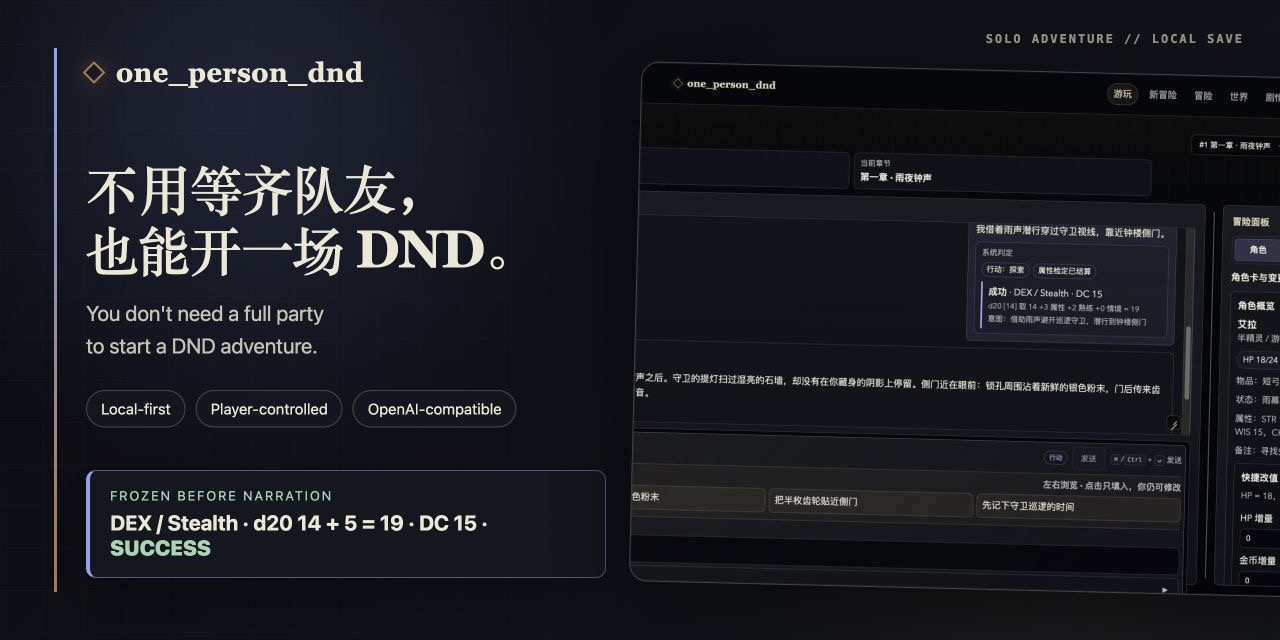
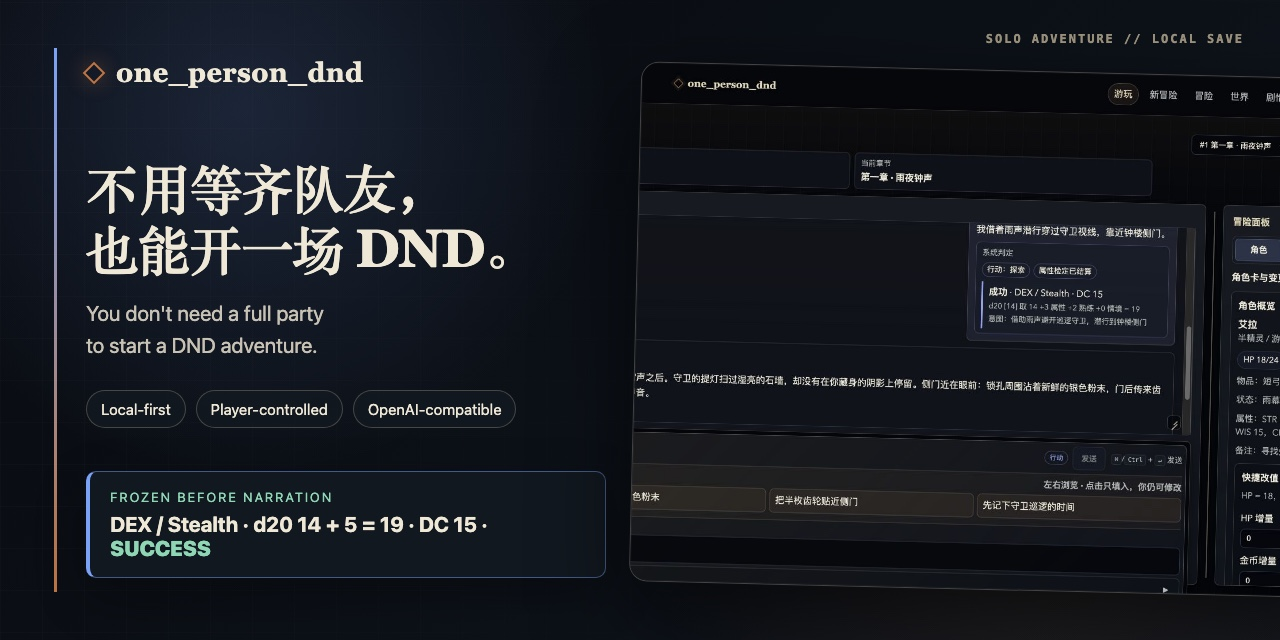
恢复双语 README 头图

diff --git a/docs/assets/github/social-preview-source.html b/docs/assets/github/social-preview-source.html
@@ -1,10 +1,21 @@
 <!doctype html>
-<!-- Render at 1280x720, then center-crop to GitHub's 1280x640 social-preview size. -->
-<html lang="zh-CN">
+<!--
+  Render at 1280x640; the height media query centers the 720px design canvas.
+  Chinese: social-preview-source.html
+  English: social-preview-source.html?locale=en
+-->
+<html lang="zh-CN" data-locale="zh-CN">
 <head>
   <meta charset="utf-8">
   <meta name="viewport" content="width=1280, initial-scale=1">
   <title>one_person_dnd social preview</title>
+  <script>
+    const locale = new URLSearchParams(window.location.search).get("locale");
+    if (locale === "en") {
+      document.documentElement.lang = "en";
+      document.documentElement.dataset.locale = "en";
+    }
+  </script>
   <style>
     * { box-sizing: border-box; }
     html, body { margin: 0; width: 100%; height: 100%; overflow: hidden; background: #080b10; }
@@ -32,9 +43,15 @@
     }
     .rail { position: absolute; left: 54px; top: 88px; bottom: 88px; width: 3px; background: linear-gradient(#7aa2f7, #c07643); }
     .copy { position: absolute; left: 86px; top: 97px; width: 510px; z-index: 2; }
+    .copy--en { display: none; }
+    html[data-locale="en"] .copy--zh { display: none; }
+    html[data-locale="en"] .copy--en { display: block; }
     .brand { display: flex; align-items: center; gap: 14px; font: 700 27px Georgia, serif; letter-spacing: .5px; }
     .diamond { width: 16px; height: 16px; border: 2px solid #c07643; transform: rotate(45deg); box-shadow: 0 0 20px rgba(192, 118, 67, .4); }
     h1 { margin: 70px 0 17px; font: 700 53px/1.15 Georgia, "Songti SC", serif; letter-spacing: -1.5px; max-width: 520px; }
+    .copy--en h1 { font-size: 45px; line-height: 1.08; letter-spacing: -1.6px; margin-top: 55px; }
+    .copy--en .sub { font-size: 19px; }
+    .copy--en .tokens { margin-top: 20px; }
     .sub { font-size: 21px; line-height: 1.55; color: #c8c2b4; max-width: 485px; }
     .accent { color: #7aa2f7; }
     .tokens { display: flex; gap: 10px; margin-top: 28px; flex-wrap: wrap; }
@@ -45,17 +62,33 @@
     .check-main b { color: #8fd6b4; }
     .shot { position: absolute; left: 635px; top: 110px; width: 720px; height: 520px; border: 1px solid rgba(228, 211, 176, .24); border-radius: 18px; overflow: hidden; box-shadow: 0 34px 90px rgba(0, 0, 0, .62); transform: rotate(1.4deg); background: #111820; }
     .shot img { width: 100%; height: 100%; object-fit: cover; object-position: 48% 50%; filter: saturate(.94) contrast(1.04); }
+    .shot__image--en { display: none; }
+    html[data-locale="en"] .shot__image--zh { display: none; }
+    html[data-locale="en"] .shot__image--en { display: block; }
     .shot::after { content: ""; position: absolute; inset: 0; box-shadow: inset 0 0 0 1px rgba(255, 255, 255, .04); }
     .corner { position: absolute; right: 36px; top: 72px; color: #e4d3b0; font: 600 12px monospace; letter-spacing: 2px; opacity: .65; }
+    @media (height: 640px) {
+      .canvas { transform: translateY(-40px); }
+    }
   </style>
 </head>
 <body>
   <main class="canvas">
     <div class="rail"></div>
-    <section class="copy">
+    <section class="copy copy--zh">
       <div class="brand"><span class="diamond"></span><span>one_person_dnd</span></div>
       <h1>不用等齐队友，<br>也能开一场 DND。</h1>
       <div class="sub">You don't need a full party<br>to start a DND adventure.</div>
+      <div class="tokens">
+        <span class="token">Local-first</span>
+        <span class="token">Player-controlled</span>
+        <span class="token">OpenAI-compatible</span>
+      </div>
+    </section>
+    <section class="copy copy--en">
+      <div class="brand"><span class="diamond"></span><span>one_person_dnd</span></div>
+      <h1>You don't need a full<br>party to start a DND<br>adventure.</h1>
+      <div class="sub">不用等齐队友，<br>也能开一场 DND。</div>
       <div class="tokens">
         <span class="token">Local-first</span>
         <span class="token">Player-controlled</span>
@@ -66,7 +99,10 @@
       <div class="check-top">Frozen before narration</div>
       <div class="check-main">DEX / Stealth · d20 14 + 5 = 19 · DC 15 · <b>SUCCESS</b></div>
     </section>
-    <div class="shot"><img alt="" src="game-hero.jpg"></div>
+    <div class="shot">
+      <img class="shot__image--zh" alt="" src="game-hero.jpg">
+      <img class="shot__image--en" alt="" src="game-hero.en.jpg">
+    </div>
     <div class="corner">SOLO ADVENTURE // LOCAL SAVE</div>
   </main>
 </body>

diff --git a/README.en.md b/README.en.md
@@ -4,29 +4,22 @@
   <a href="README.md">中文</a> · <strong>English</strong>
 </p>
 
-<p align="center"><strong>You don't need a full party to start a DND adventure.</strong></p>
+<p align="center">
+  <img src="docs/assets/github/social-preview.en.jpg" width="1280" alt="one_person_dnd: start a DND adventure without a full party; cover showing the solo-adventure interface and a resolved stealth check">
+</p>
 
 <p align="center">
   <a href="https://github.com/taogezhizun/one_person_dnd/actions/workflows/ci.yml"><img alt="CI" src="https://github.com/taogezhizun/one_person_dnd/actions/workflows/ci.yml/badge.svg?branch=main"></a>
   <a href="pyproject.toml"><img alt="Python 3.12+" src="https://img.shields.io/badge/Python-3.12%2B-7aa2f7?logo=python&amp;logoColor=white&amp;labelColor=111820"></a>
   <a href="LICENSE"><img alt="MIT License" src="https://img.shields.io/badge/License-MIT-c07643?labelColor=111820"></a>
-  <a href="#local-data-and-configuration"><img alt="Local-first data" src="https://img.shields.io/badge/Data-local--first-8fd6b4?labelColor=111820"></a>
 </p>
 
 <p align="center">
-  <img src="docs/assets/github/game-hero.en.jpg" width="1200" alt="one_person_dnd English game screen with a resolved stealth check, DM narration, action choices, and the character panel">
+  Bring your character, say what you want to do, and let the adventure begin. AI runs the game while your character and saves stay local; switching between Chinese and English never rewrites saved content.
 </p>
 
 <p align="center">
-  Bring your character, say what you want to do, and let the adventure begin. AI runs the game; your character and saves stay local.
-</p>
-
-<p align="center">
-  The interface supports Chinese and English from the top navigation. Switching languages leaves saved characters and story text unchanged.
-</p>
-
-<p align="center">
-  <a href="#quick-start">90-second setup</a> · <a href="#why-play">Why play</a> · <a href="#from-setup-to-your-first-turn">Turn flow</a>
+  <a href="#quick-start">90-second setup</a> · <a href="#in-the-app">See the interface</a>
 </p>
 
 ## Why Play
@@ -34,6 +27,12 @@
 - **You own the save**: adventure data stays in the project-local SQLite database, with multiple saves, snapshots, restores, and forks.
 - **Adjudication precedes narration**: the system freezes abilities, skills, DC, dice, and outcomes before the DM narrates; the same technical retry never rerolls. Attacks, saving throws, and full combat are explicitly marked unsupported.
 - **The DM proposes; you decide**: character-sheet and plot-thread changes enter a review queue and alter authoritative state only after the player applies them.
+
+## In the App
+
+<p align="center">
+  <img src="docs/assets/github/game-hero.en.jpg" width="1200" alt="one_person_dnd English game screen with a resolved stealth check, DM narration, action choices, and the character panel">
+</p>
 
 ## From Setup to Your First Turn
 

diff --git a/README.md b/README.md
@@ -4,29 +4,22 @@
   <strong>中文</strong> · <a href="README.en.md">English</a>
 </p>
 
-<p align="center"><strong>不用等齐队友，也能开一场 DND。</strong></p>
+<p align="center">
+  <img src="docs/assets/github/social-preview.jpg" width="1280" alt="one_person_dnd：不用等齐队友，也能开一场 DND；封面展示单人冒险界面和已结算的潜行检定">
+</p>
 
 <p align="center">
   <a href="https://github.com/taogezhizun/one_person_dnd/actions/workflows/ci.yml"><img alt="CI" src="https://github.com/taogezhizun/one_person_dnd/actions/workflows/ci.yml/badge.svg?branch=main"></a>
   <a href="pyproject.toml"><img alt="Python 3.12+" src="https://img.shields.io/badge/Python-3.12%2B-7aa2f7?logo=python&amp;logoColor=white&amp;labelColor=111820"></a>
   <a href="LICENSE"><img alt="MIT License" src="https://img.shields.io/badge/License-MIT-c07643?labelColor=111820"></a>
-  <a href="#本地数据和配置"><img alt="Local-first data" src="https://img.shields.io/badge/Data-local--first-8fd6b4?labelColor=111820"></a>
 </p>
 
 <p align="center">
-  <img src="docs/assets/github/game-hero.jpg" width="1200" alt="one_person_dnd 游戏界面：已结算的潜行检定、DM 叙事、行动建议和角色面板">
+  带上你的角色，说出你想做什么，冒险就从这里开始。AI 来当 DM，角色和存档都留在本地；界面支持中文与 English，切换不会改写已有内容。
 </p>
 
 <p align="center">
-  带上你的角色，说出你想做什么，冒险就从这里开始。AI 来当 DM，角色和存档都留在本地。
-</p>
-
-<p align="center">
-  应用界面支持中文与 English，可从顶部导航随时切换；已有存档、角色与剧情正文保持原样。
-</p>
-
-<p align="center">
-  <a href="#快速开始">90 秒启动</a> · <a href="#为什么值得玩">为什么值得玩</a> · <a href="#从配置到第一回合">回合流程</a>
+  <a href="#快速开始">90 秒启动</a> · <a href="#实机界面">查看实机</a>
 </p>
 
 ## 为什么值得玩
@@ -34,6 +27,12 @@
 - **存档归你**：冒险数据保存在项目内的 SQLite；支持多个存档、快照、恢复和分叉。
 - **裁决先于叙事**：系统先冻结属性、技能、DC、骰面与结果，再交给 DM 讲述；同一技术重试不会重掷。攻击、豁免和完整战斗会明确标记为暂不支持。
 - **DM 提议，你确认**：角色卡和剧情线变化先进入待审队列，只有玩家应用后才改写权威状态。
+
+## 实机界面
+
+<p align="center">
+  <img src="docs/assets/github/game-hero.jpg" width="1200" alt="one_person_dnd 游戏界面：已结算的潜行检定、DM 叙事、行动建议和角色面板">
+</p>
 
 ## 从配置到第一回合
 
